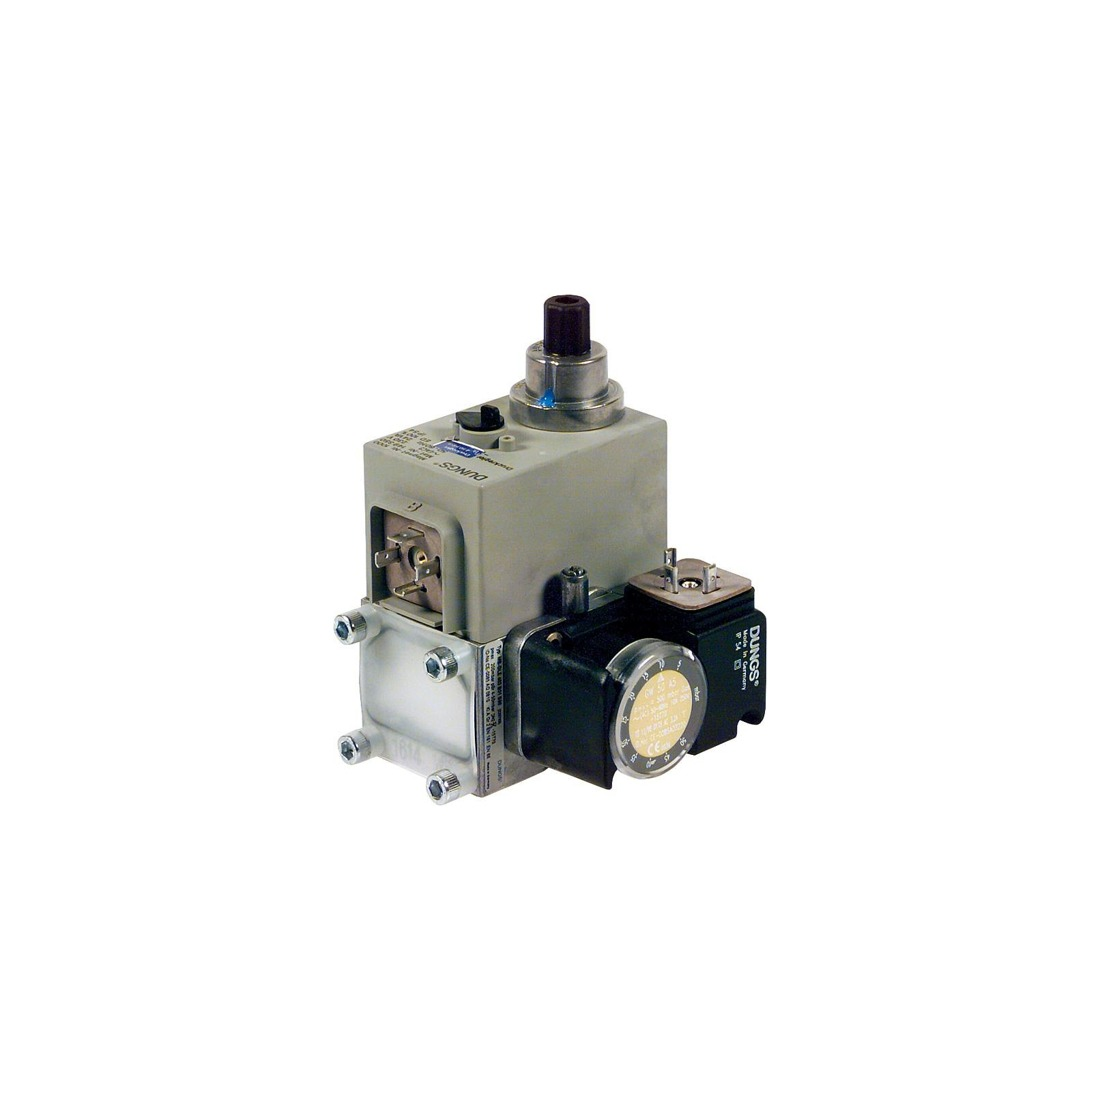
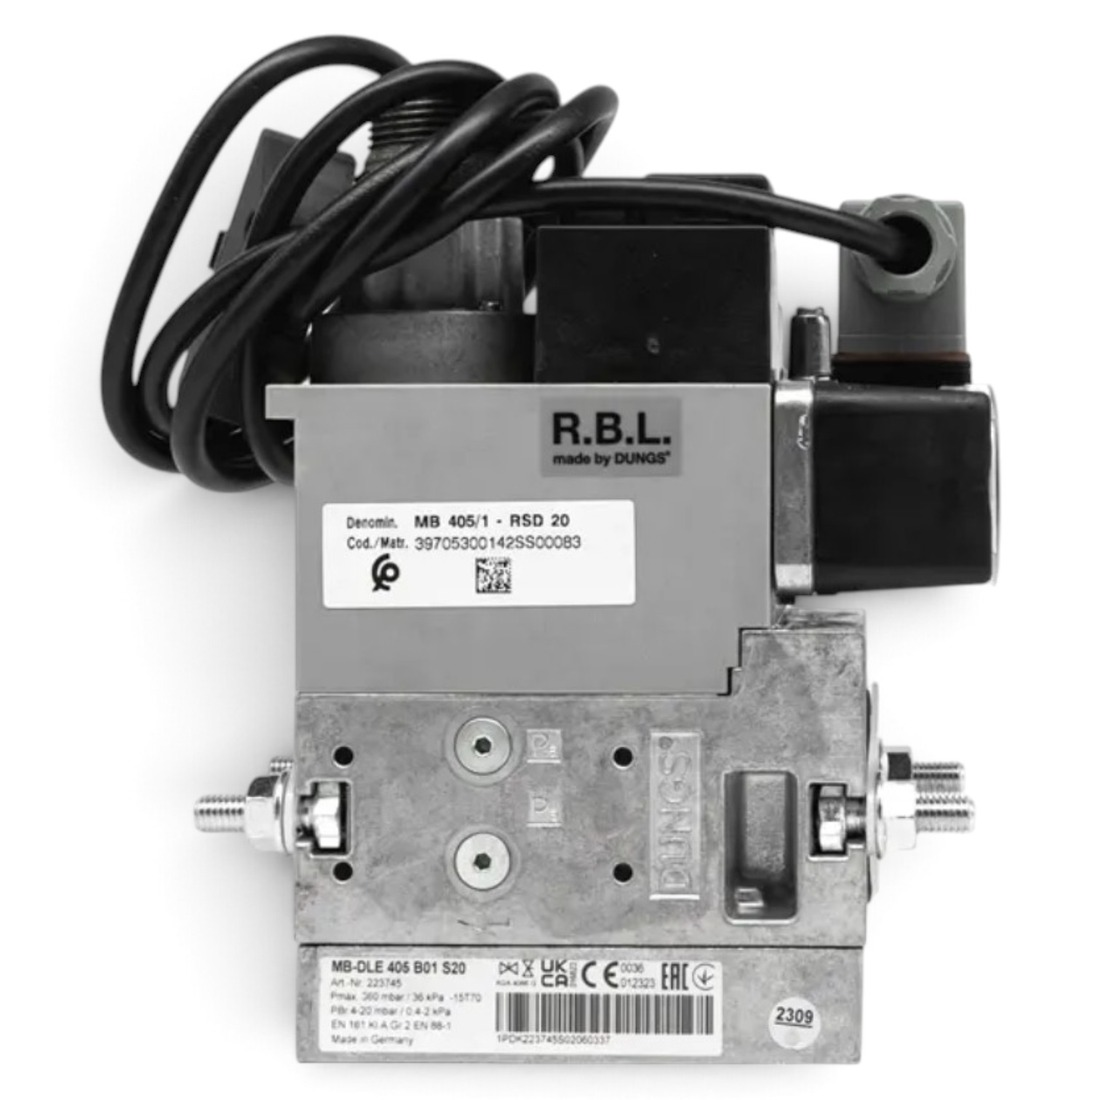
Update MB-DLE 405 B01 S20 photo + correct Order No. from nameplate
New clearer nameplate photo replaces the earlier blurry one for
dungs-mb-dle-405-b01-s20. The nameplate also shows the correct
Dungs Art.-Nr. as 223745 (not 159200, used earlier from an
unverified source) — corrected across index.html,
related-products-data.js, brands/dungs.html,
categories/multiblocks.html and the product page itself.

Claude-Session: https://claude.ai/code/session_019Q8BFS68TSdUejhrjheaPG

diff --git a/products/dungs-mb-dle-405-b01-s20.html b/products/dungs-mb-dle-405-b01-s20.html
@@ -7,8 +7,8 @@
 <link rel="icon" type="image/png" sizes="32x32" href="../images/favicon-32.png">
 <link rel="apple-touch-icon" sizes="180x180" href="../images/apple-touch-icon-180.png">
 <title>Dungs MultiBloc MB-DLE 405 B01 S20 | RKIC</title>
-<meta name="description" content="Dungs MultiBloc MB-DLE 405 B01 S20 — Multiblocks. Type: MB-DLE 405 B01 S20. Order No. (Art. Nr.): 159200. Quality assured, pan-India shipping.">
-<meta name="keywords" content="Dungs, 159200, Multiblocks, Dungs MultiBloc MB-DLE 405 B01 S20, Surat, Gujarat, India, industrial instruments">
+<meta name="description" content="Dungs MultiBloc MB-DLE 405 B01 S20 — Multiblocks. Type: MB-DLE 405 B01 S20. Order No. (Art. Nr.): 223745. Quality assured, pan-India shipping.">
+<meta name="keywords" content="Dungs, 223745, Multiblocks, Dungs MultiBloc MB-DLE 405 B01 S20, Surat, Gujarat, India, industrial instruments">
 <link rel="canonical" href="https://rkic1976-bot.github.io/RKIC-SITE/products/dungs-mb-dle-405-b01-s20.html">
 <meta property="og:type" content="product">
 <meta property="og:title" content="Dungs MultiBloc MB-DLE 405 B01 S20">
@@ -22,7 +22,7 @@
 <meta name="twitter:title" content="Dungs MultiBloc MB-DLE 405 B01 S20">
 <meta name="twitter:description" content="The Dungs MultiBloc MB-DLE 405 B01 S20 is a compact combination gas control unit that integrates a microfilter, an adjustable pressure regulator and two safety solenoid shut-off valves in a single cast housing — reducing the number of separate fittings, joints and potential leak points needed in a burner gas line. Rated for inlet pressures up to 360 mbar (36 kPa) with a regulated outlet of 4–20 mbar, it is built with an Rp 1/2&quot; (DN15) threaded connection, a 220–230V AC coil supply (32 VA), and an aluminium die-cast body with NBR/silicone seals rated for -15°C to +70°C ambient service. It accepts mountable Dungs GW/NB/ÜB-series pressure switches (per DIN EN 1854) for min/max pressure interlock, and is certified to DIN EN 161 Class A Group 2 and DIN EN 88 Class A for gas families 1, 2 and 3. Commonly used on atmospheric boilers, furnaces and small-to-medium gas burners as a space-saving, all-in-one gas train. Manufactured by Dungs, Germany.">
 <meta name="twitter:image" content="https://rkic1976-bot.github.io/RKIC-SITE/images/dungs-mb-dle-405-b01-s20-large.jpg">
-<script type="application/ld+json">{"@context": "https://schema.org", "@type": "Product", "name": "Dungs MultiBloc MB-DLE 405 B01 S20", "sku": "159200", "mpn": "159200", "description": "The Dungs MultiBloc MB-DLE 405 B01 S20 is a compact combination gas control unit that integrates a microfilter, an adjustable pressure regulator and two safety solenoid shut-off valves in a single cast housing \u2014 reducing the number of separate fittings, joints and potential leak points needed in a burner gas line. Rated for inlet pressures up to 360 mbar (36 kPa) with a regulated outlet of 4\u201320 mbar, it is built with an Rp 1/2\" (DN15) threaded connection, a 220\u2013230V AC coil supply (32 VA), and an aluminium die-cast body with NBR/silicone seals rated for -15\u00b0C to +70\u00b0C ambient service. It accepts mountable Dungs GW/NB/\u00dcB-series pressure switches (per DIN EN 1854) for min/max pressure interlock, and is certified to DIN EN 161 Class A Group 2 and DIN EN 88 Class A for gas families 1, 2 and 3. Commonly used on atmospheric boilers, furnaces and small-to-medium gas burners as a space-saving, all-in-one gas train. Manufactured by Dungs, Germany.", "brand": {"@type": "Brand", "name": "Dungs"}, "category": "MULTIBLOCKS", "manufacturer": {"@type": "Organization", "name": "Dungs"}, "image": "https://rkic1976-bot.github.io/RKIC-SITE/images/dungs-mb-dle-405-b01-s20-large.jpg", "url": "https://rkic1976-bot.github.io/RKIC-SITE/products/dungs-mb-dle-405-b01-s20.html"}</script>
+<script type="application/ld+json">{"@context": "https://schema.org", "@type": "Product", "name": "Dungs MultiBloc MB-DLE 405 B01 S20", "sku": "223745", "mpn": "223745", "description": "The Dungs MultiBloc MB-DLE 405 B01 S20 is a compact combination gas control unit that integrates a microfilter, an adjustable pressure regulator and two safety solenoid shut-off valves in a single cast housing \u2014 reducing the number of separate fittings, joints and potential leak points needed in a burner gas line. Rated for inlet pressures up to 360 mbar (36 kPa) with a regulated outlet of 4\u201320 mbar, it is built with an Rp 1/2\" (DN15) threaded connection, a 220\u2013230V AC coil supply (32 VA), and an aluminium die-cast body with NBR/silicone seals rated for -15\u00b0C to +70\u00b0C ambient service. It accepts mountable Dungs GW/NB/\u00dcB-series pressure switches (per DIN EN 1854) for min/max pressure interlock, and is certified to DIN EN 161 Class A Group 2 and DIN EN 88 Class A for gas families 1, 2 and 3. Commonly used on atmospheric boilers, furnaces and small-to-medium gas burners as a space-saving, all-in-one gas train. Manufactured by Dungs, Germany.", "brand": {"@type": "Brand", "name": "Dungs"}, "category": "MULTIBLOCKS", "manufacturer": {"@type": "Organization", "name": "Dungs"}, "image": "https://rkic1976-bot.github.io/RKIC-SITE/images/dungs-mb-dle-405-b01-s20-large.jpg", "url": "https://rkic1976-bot.github.io/RKIC-SITE/products/dungs-mb-dle-405-b01-s20.html"}</script>
 <script type="application/ld+json">{"@context": "https://schema.org", "@type": "BreadcrumbList", "itemListElement": [{"@type": "ListItem", "position": 1, "name": "Home", "item": "https://rkic1976-bot.github.io/RKIC-SITE/"}, {"@type": "ListItem", "position": 2, "name": "Catalog", "item": "https://rkic1976-bot.github.io/RKIC-SITE/#catalog"}, {"@type": "ListItem", "position": 3, "name": "Multiblocks", "item": "https://rkic1976-bot.github.io/RKIC-SITE/categories/multiblocks.html"}, {"@type": "ListItem", "position": 4, "name": "Dungs MultiBloc MB-DLE 405 B01 S20", "item": "https://rkic1976-bot.github.io/RKIC-SITE/products/dungs-mb-dle-405-b01-s20.html"}]}</script>
 <link rel="preconnect" href="https://fonts.googleapis.com">
 <link href="https://fonts.googleapis.com/css2?family=Barlow+Condensed:wght@500;600;700&family=Barlow:wght@400;500;600&family=IBM+Plex+Mono:wght@400;500&display=swap" rel="stylesheet">
@@ -538,24 +538,24 @@ footer{ background:var(--steel); color:var(--ink); margin-top:56px; }
   <a class="pg-back" href="../categories/multiblocks.html">&larr; Back to Multiblocks</a>
   <div class="pg-grid">
     <div class="pg-img-box" id="pgImgBox">
-      <img src="../images/dungs-mb-dle-405-b01-s20-large.jpg" alt="Dungs MultiBloc MB-DLE 405 B01 S20 &mdash; Multiblocks by Dungs, Type 159200" loading="lazy">
+      <img src="../images/dungs-mb-dle-405-b01-s20-large.jpg" alt="Dungs MultiBloc MB-DLE 405 B01 S20 &mdash; Multiblocks by Dungs, Type 223745" loading="lazy">
       <span class="pg-zoom-hint" aria-hidden="true"><svg viewBox="0 0 24 24" fill="none" stroke="currentColor" stroke-width="2"><circle cx="11" cy="11" r="7"></circle><line x1="21" y1="21" x2="16.65" y2="16.65"></line><line x1="8" y1="11" x2="14" y2="11"></line><line x1="11" y1="8" x2="11" y2="14"></line></svg></span>
     </div>
     <div class="pg-lightbox" id="pgLightbox">
       <button class="pg-lightbox-close" id="pgLightboxClose" aria-label="Close">&times;</button>
-      <img src="../images/dungs-mb-dle-405-b01-s20-large.jpg" alt="Dungs MultiBloc MB-DLE 405 B01 S20 &mdash; Multiblocks by Dungs, Type 159200 — zoomed view">
+      <img src="../images/dungs-mb-dle-405-b01-s20-large.jpg" alt="Dungs MultiBloc MB-DLE 405 B01 S20 &mdash; Multiblocks by Dungs, Type 223745 — zoomed view">
     </div>
     <div>
       <div class="pg-tags">
         <span class="pg-tag">Multiblocks</span>
         <span class="pg-tag" style="display:inline-flex;align-items:center;padding:4px 10px;"><img class="pg-brand-logo" src="../images/pg-logos/pg-logo-dungs.png" alt="Dungs logo"></span>
-        <span class="pg-tag">159200</span>
+        <span class="pg-tag">223745</span>
       </div>
       <h1 class="pg-title">Dungs MultiBloc MB-DLE 405 B01 S20</h1>
-      <div class="pg-code mono">Product Code: 159200 &middot; DN15 (Rp 1/2") &middot; Pmax 360 mbar &middot; 230V AC</div>
+      <div class="pg-code mono">Product Code: 223745 &middot; DN15 (Rp 1/2") &middot; Pmax 360 mbar &middot; 230V AC</div>
       <div class="pg-specs">
 <div class="pg-spec-row"><span class="pg-spec-k">Type</span><span class="pg-spec-v">MB-DLE 405 B01 S20</span></div>
-<div class="pg-spec-row"><span class="pg-spec-k">Order No. (Art. Nr.)</span><span class="pg-spec-v">159200</span></div>
+<div class="pg-spec-row"><span class="pg-spec-k">Order No. (Art. Nr.)</span><span class="pg-spec-v">223745</span></div>
 <div class="pg-spec-row"><span class="pg-spec-k">Function</span><span class="pg-spec-v">Combination gas control unit — filter, pressure regulator and two safety solenoid valves (multibloc) in one body</span></div>
 <div class="pg-spec-row"><span class="pg-spec-k">Connection Size</span><span class="pg-spec-v">Rp 1/2" (DN15), threaded</span></div>
 <div class="pg-spec-row"><span class="pg-spec-k">Max. Operating (Inlet) Pressure</span><span class="pg-spec-v">360 mbar (36 kPa)</span></div>

diff --git a/related-products-data.js b/related-products-data.js
@@ -34,7 +34,7 @@ const RKIC_PRODUCTS = [
 {id:"vanaz-twostage-gastrain", name:"Vanaz Two-Stage Pressure Reducing System", brand:"Vanaz", category:"GAS TRAIN SYSTEMS", subcategory:null, code:"Two-Stage PRS", thumb:"../images/thumbs/vanaz-twostage-gastrain-thumb.jpg"},
   {id:"dungs-gastrain-dn65", name:"Dungs Flanged Gas Train System DN65", brand:"Dungs", category:"GAS TRAIN SYSTEMS", subcategory:null, code:"DN65 Gas Train", thumb:"../images/thumbs/dungs-gastrain-dn65-thumb.jpg"},
 {id:"madas-gastrain-dn50", name:"Madas Flanged Gas Train System DN50", brand:"Madas", category:"GAS TRAIN SYSTEMS", subcategory:null, code:"DN50 Gas Train", thumb:"../images/thumbs/madas-gastrain-dn50-thumb.jpg"},
-  {id:"dungs-mb-dle-405-b01-s20", name:"Dungs MultiBloc MB-DLE 405 B01 S20", brand:"Dungs", category:"MULTIBLOCKS", subcategory:null, code:"159200", thumb:"../images/thumbs/dungs-mb-dle-405-b01-s20-thumb.jpg"},
+  {id:"dungs-mb-dle-405-b01-s20", name:"Dungs MultiBloc MB-DLE 405 B01 S20", brand:"Dungs", category:"MULTIBLOCKS", subcategory:null, code:"223745", thumb:"../images/thumbs/dungs-mb-dle-405-b01-s20-thumb.jpg"},
   {id:"dungs-mb-zrdle-412-b01-s20", name:"Dungs MultiBloc MB-ZRDLE 412 B01 S20", brand:"Dungs", category:"MULTIBLOCKS", subcategory:null, code:"223752", thumb:"../images/thumbs/dungs-mb-zrdle-412-b01-s20-thumb.jpg"},
   {id:"dungs-mb-dle-403-b01-s50", name:"Dungs MultiBloc MB-DLE 403 B01 S50", brand:"Dungs", category:"MULTIBLOCKS", subcategory:null, code:"226783", thumb:"../images/thumbs/dungs-mb-dle-403-b01-s50-thumb.jpg"},
   {id:"dungs-vps504s04", name:"Dungs Valve Proving System VPS 504 S04", brand:"Dungs", category:"VALVE PROVING SYSTEMS", subcategory:null, code:"219881", thumb:"../images/thumbs/dungs-vps504s04-thumb.jpg"},

diff --git a/categories/multiblocks.html b/categories/multiblocks.html
@@ -550,7 +550,7 @@ footer{ background:var(--steel); color:var(--ink); margin-top:56px; }
     <a href="../products/dungs-mb-dle-405-b01-s20.html" class="related-card">
   <div class="related-thumb"><img src="../images/thumbs/dungs-mb-dle-405-b01-s20-thumb.jpg" alt="Dungs MultiBloc MB-DLE 405 B01 S20" loading="lazy"><span class="related-zoom-btn" data-zoom-src="../images/dungs-mb-dle-405-b01-s20-large.jpg" data-zoom-alt="Dungs MultiBloc MB-DLE 405 B01 S20" aria-hidden="true"><svg viewBox="0 0 24 24" fill="none" stroke="currentColor" stroke-width="2"><circle cx="11" cy="11" r="7"></circle><line x1="21" y1="21" x2="16.65" y2="16.65"></line><line x1="8" y1="11" x2="14" y2="11"></line><line x1="11" y1="8" x2="11" y2="14"></line></svg></span></div>
   <div class="related-name">Dungs MultiBloc MB-DLE 405 B01 S20</div>
-  <div class="related-code">Dungs &middot; DN15 (Rp 1/2&quot;) &middot; 159200</div>
+  <div class="related-code">Dungs &middot; DN15 (Rp 1/2&quot;) &middot; 223745</div>
 </a>
     <a href="../products/dungs-mb-zrdle-412-b01-s20.html" class="related-card">
   <div class="related-thumb"><img src="../images/thumbs/dungs-mb-zrdle-412-b01-s20-thumb.jpg" alt="Dungs MultiBloc MB-ZRDLE 412 B01 S20" loading="lazy"><span class="related-zoom-btn" data-zoom-src="../images/dungs-mb-zrdle-412-b01-s20-large.jpg" data-zoom-alt="Dungs MultiBloc MB-ZRDLE 412 B01 S20" aria-hidden="true"><svg viewBox="0 0 24 24" fill="none" stroke="currentColor" stroke-width="2"><circle cx="11" cy="11" r="7"></circle><line x1="21" y1="21" x2="16.65" y2="16.65"></line><line x1="8" y1="11" x2="14" y2="11"></line><line x1="11" y1="8" x2="11" y2="14"></line></svg></span></div>

diff --git a/brands/dungs.html b/brands/dungs.html
@@ -565,7 +565,7 @@ footer{ background:var(--steel); color:var(--ink); margin-top:56px; }
     <a href="../products/dungs-mb-dle-405-b01-s20.html" class="related-card">
   <div class="related-thumb"><img src="../images/thumbs/dungs-mb-dle-405-b01-s20-thumb.jpg" alt="Dungs MultiBloc MB-DLE 405 B01 S20" loading="lazy"><span class="related-zoom-btn" data-zoom-src="../images/dungs-mb-dle-405-b01-s20-large.jpg" data-zoom-alt="Dungs MultiBloc MB-DLE 405 B01 S20" aria-hidden="true"><svg viewBox="0 0 24 24" fill="none" stroke="currentColor" stroke-width="2"><circle cx="11" cy="11" r="7"></circle><line x1="21" y1="21" x2="16.65" y2="16.65"></line><line x1="8" y1="11" x2="14" y2="11"></line><line x1="11" y1="8" x2="11" y2="14"></line></svg></span></div>
   <div class="related-name">Dungs MultiBloc MB-DLE 405 B01 S20</div>
-  <div class="related-code">Dungs &middot; Code 159200</div>
+  <div class="related-code">Dungs &middot; Code 223745</div>
 </a>
     <a href="../products/dungs-mb-zrdle-412-b01-s20.html" class="related-card">
   <div class="related-thumb"><img src="../images/thumbs/dungs-mb-zrdle-412-b01-s20-thumb.jpg" alt="Dungs MultiBloc MB-ZRDLE 412 B01 S20" loading="lazy"><span class="related-zoom-btn" data-zoom-src="../images/dungs-mb-zrdle-412-b01-s20-large.jpg" data-zoom-alt="Dungs MultiBloc MB-ZRDLE 412 B01 S20" aria-hidden="true"><svg viewBox="0 0 24 24" fill="none" stroke="currentColor" stroke-width="2"><circle cx="11" cy="11" r="7"></circle><line x1="21" y1="21" x2="16.65" y2="16.65"></line><line x1="8" y1="11" x2="14" y2="11"></line><line x1="11" y1="8" x2="11" y2="14"></line></svg></span></div>

diff --git a/index.html b/index.html
@@ -1361,12 +1361,12 @@
       name: 'Dungs MultiBloc MB-DLE 405 B01 S20',
       brand: 'Dungs',
       category: 'MULTIBLOCKS',
-      code: '159200',
+      code: '223745',
       size: 'DN15 (Rp 1/2") · Pmax 360 mbar · 230V AC',
       image: 'images/dungs-mb-dle-405-b01-s20-large.jpg',
       specs: {
         'Type': 'MB-DLE 405 B01 S20',
-        'Order No. (Art. Nr.)': '159200',
+        'Order No. (Art. Nr.)': '223745',
         'Function': 'Combination gas control unit — filter, pressure regulator and two safety solenoid valves (multibloc) in one body',
         'Connection Size': 'Rp 1/2\" (DN15), threaded',
         'Max. Operating (Inlet) Pressure': '360 mbar (36 kPa)',
